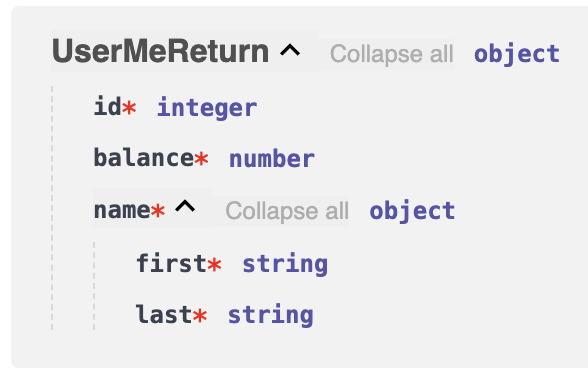
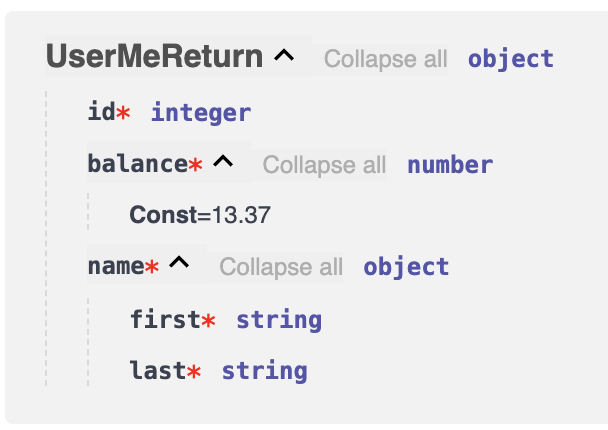
Use Literals by default

diff --git a/src/type_less/inject.py b/src/type_less/inject.py
@@ -3,7 +3,7 @@ from functools import wraps
 from typing import Callable, TypeVar
 
 
-def fill_type_hints(func: Callable, use_literals=False):
+def fill_type_hints(func: Callable, use_literals=True):
     if not getattr(func, "__annotations__", None):
         func.__annotations__ = {}
 
@@ -12,7 +12,7 @@ def fill_type_hints(func: Callable, use_literals=False):
 
 
 T = TypeVar("T")
-def fastapi_app_inject_types(app: T, use_literals=False) -> T:
+def fastapi_app_inject_types(app: T, use_literals=True) -> T:
     """
     Auto-injects return types into FastAPI untyped routes.
 
